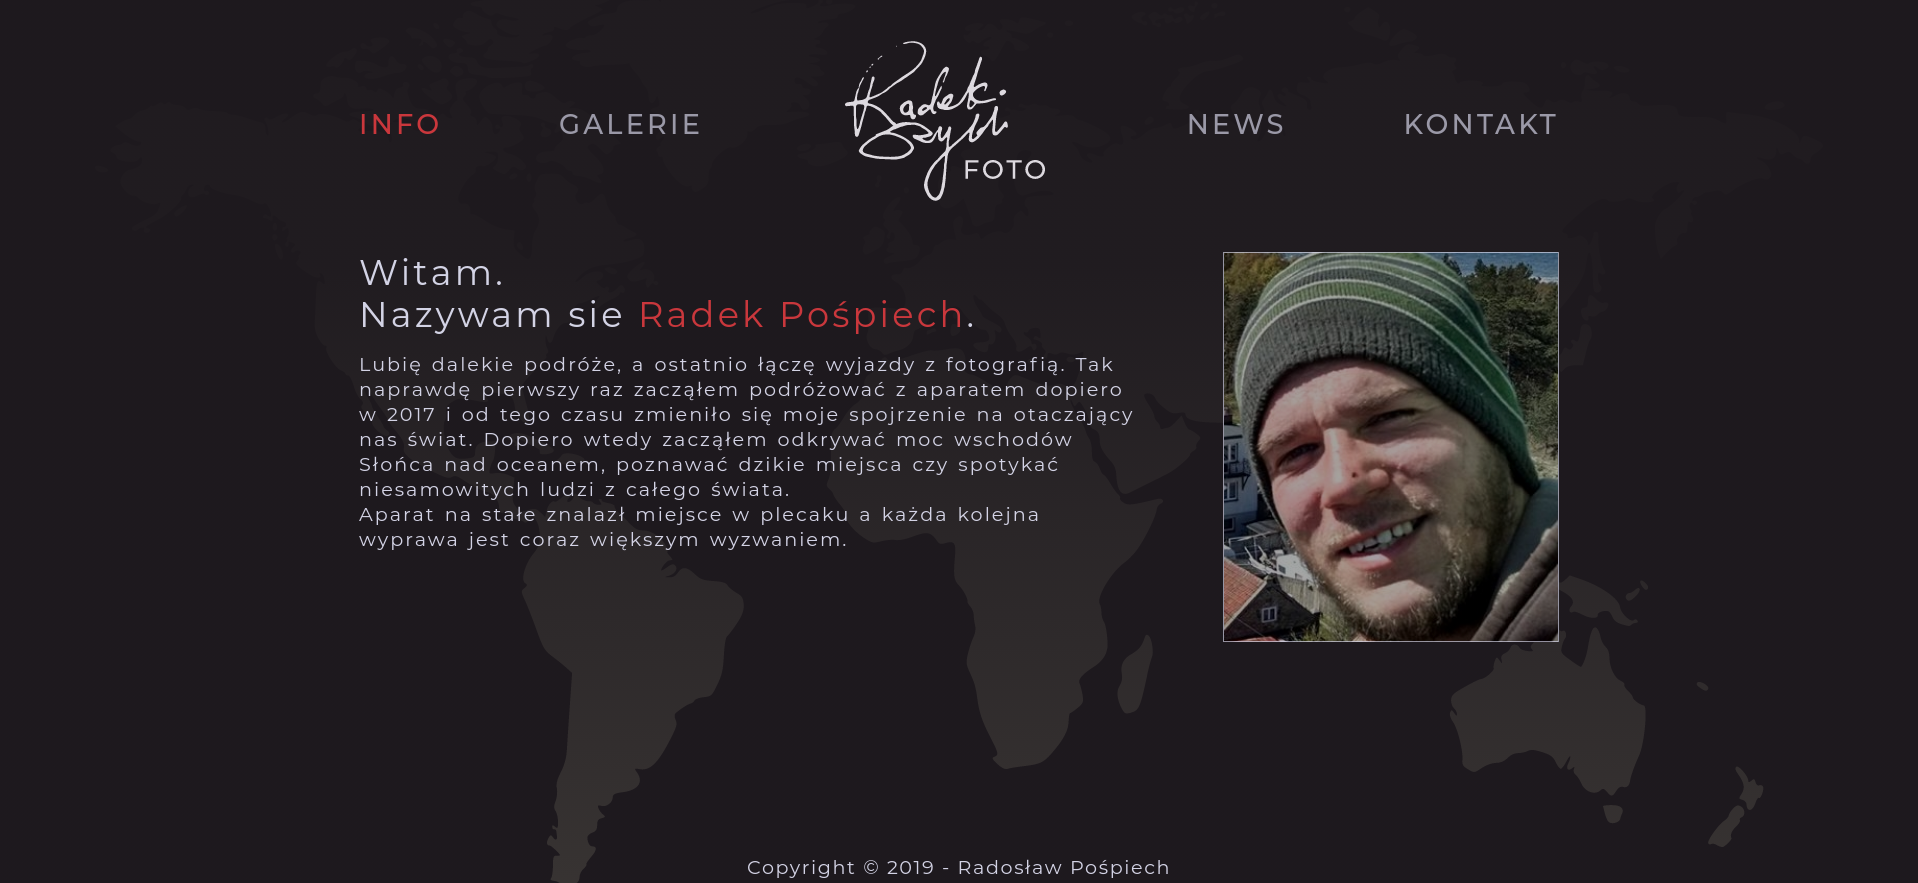
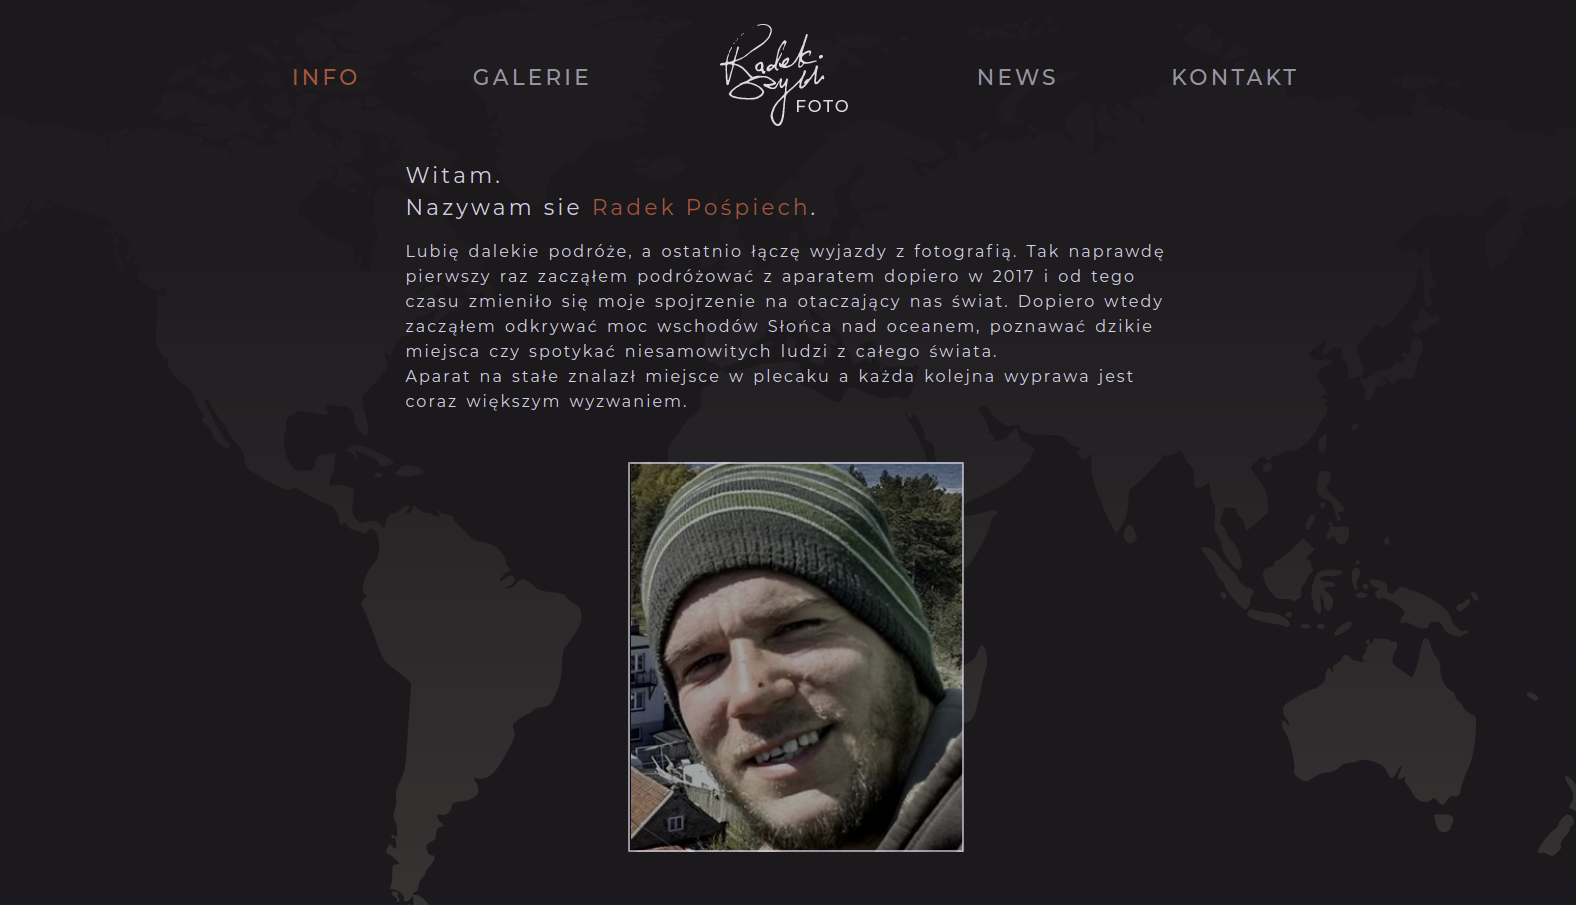
cleaned code a little bit

diff --git a/css/styles.css b/css/styles.css
@@ -74,7 +74,7 @@ img {
     position: relative;
     display: block;
     width: 3rem;
-    height: .2rem;
+    height: .1rem;
     background: #424141;
     -webkit-transform: translateX(-50%);
     -ms-transform: translateX(-50%);
@@ -82,7 +82,7 @@ img {
     bottom: auto;
     left: 50%;
     border-radius: .1rem;
-    margin-top: 1.2rem; }
+    margin-top: 1.5rem; }
 
 /* *** NAVIGATION *** */
 /* Trigger */
@@ -90,7 +90,7 @@ img {
   display: block;
   position: fixed;
   width: 30px;
-  height: 25px;
+  height: 42px;
   right: 2rem;
   top: 2rem;
   z-index: 200;
@@ -98,9 +98,9 @@ img {
   .toggler .burger {
     display: inline-block;
     position: relative;
-    width: 30px;
-    height: 5px;
-    background-color: #FFFFFF;
+    width: 28px;
+    height: 3px;
+    background-color: #f0f0f0;
     -webkit-transition-property: background-color, -webkit-transform;
     transition-property: background-color, -webkit-transform;
     -o-transition-property: background-color, transform;
@@ -108,14 +108,16 @@ img {
     transition-property: background-color, transform, -webkit-transform;
     -webkit-transition-duration: 300ms;
     -o-transition-duration: 300ms;
-    transition-duration: 300ms; }
+    transition-duration: 300ms;
+    border-radius: 2px; }
     .toggler .burger:before, .toggler .burger:after {
       content: '';
       display: block;
       width: 30px;
-      height: 5px;
+      height: 3px;
+      left: -1px;
       position: absolute;
-      background: #FFFFFF;
+      background: #f0f0f0;
       -webkit-transition-property: margin, -webkit-transform;
       transition-property: margin, -webkit-transform;
       -o-transition-property: margin, transform;
@@ -123,11 +125,12 @@ img {
       transition-property: margin, transform, -webkit-transform;
       -webkit-transition-duration: 300ms;
       -o-transition-duration: 300ms;
-      transition-duration: 300ms; }
+      transition-duration: 300ms;
+      border-radius: 2px; }
     .toggler .burger:before {
-      margin-top: -10px; }
+      margin-top: -12px; }
     .toggler .burger:after {
-      margin-top: 10px; }
+      margin-top: 12px; }
   .toggler.nav--opened {
     opacity: 0.5; }
 
@@ -160,7 +163,7 @@ img {
 
 .nav--opened .nav {
   opacity: 1;
-  background-color: #333; }
+  background-color: #294874; }
 
 .nav__list {
   margin: 0;
@@ -175,10 +178,10 @@ img {
       padding: 1rem 0; } }
 
 .nav__link {
-  font-size: 1.3em;
+  font-size: 1.5em;
   text-transform: uppercase;
   text-decoration: none;
-  color: #FFFFFF;
+  color: #f0f0f0;
   -webkit-transition: opacity 300ms ease-in-out;
   -o-transition: opacity 300ms ease-in-out;
   transition: opacity 300ms ease-in-out;
@@ -230,33 +233,17 @@ img {
     width: 100%;
     height: 100%;
     position: absolute;
-    background: -webkit-gradient(linear, left top, left bottom, from(#373b449d), to(#4286f483)), fixed url("../../img/bg.jpg") center/cover no-repeat;
-    background: -webkit-linear-gradient(top, #373b449d, #4286f483), fixed url("../../img/bg.jpg") center/cover no-repeat;
-    background: -o-linear-gradient(top, #373b449d, #4286f483), fixed url("../../img/bg.jpg") center/cover no-repeat;
-    background: linear-gradient(to bottom, #373b449d, #4286f483), fixed url("../../img/bg.jpg") center/cover no-repeat; }
+    background: -webkit-gradient(linear, left bottom, left top, from(#373b449d), to(#4286f483)), fixed url("../../img/bg.jpg") center/cover no-repeat;
+    background: -webkit-linear-gradient(bottom, #373b449d, #4286f483), fixed url("../../img/bg.jpg") center/cover no-repeat;
+    background: -o-linear-gradient(bottom, #373b449d, #4286f483), fixed url("../../img/bg.jpg") center/cover no-repeat;
+    background: linear-gradient(to top, #373b449d, #4286f483), fixed url("../../img/bg.jpg") center/cover no-repeat; }
   .header .logo--header {
     position: absolute;
-    left: 1.2rem;
-    top: 1.2rem;
-    padding: .2rem .6rem .3rem;
-    font-size: 1.7rem;
-    font-weight: bolder;
-    font-family: "Montserrat", sans-serif; }
-    .header .logo--header .span-1 {
-      position: relative;
-      left: .3rem; }
-    .header .logo--header .span-2 {
-      position: relative;
-      font-size: 2.1rem;
-      top: 2px;
-      right: .3rem;
-      -webkit-transform: rotateZ(100deg);
-      -ms-transform: rotate(100deg);
-      transform: rotateZ(100deg); }
-    .header .logo--header .span-3 {
-      position: relative;
-      right: 16px;
-      bottom: 5px; }
+    left: 1rem;
+    top: 1.6rem; }
+    .header .logo--header img {
+      width: 100px;
+      height: 100px; }
   .header .header-container {
     padding: 0 1rem;
     position: relative;
@@ -272,6 +259,7 @@ img {
       transition: all .5s; }
       .header .header-container span.header-part-1 {
         font-size: 1.6rem;
+        font-weight: lighter;
         text-align: center;
         -webkit-animation: header1 3s forwards;
         animation: header1 3s forwards;
@@ -280,7 +268,7 @@ img {
         -webkit-animation: header2 3.8s ease-in 1;
         animation: header2 3.8s ease-in 1;
         font-size: 1.3rem;
-        letter-spacing: 8px; }
+        letter-spacing: 5px; }
 
 @-webkit-keyframes header1 {
   0% {
@@ -463,10 +451,10 @@ img {
     height: 100%;
     position: absolute;
     z-index: -1;
-    background: -webkit-gradient(linear, left bottom, left top, from(#373b449d), to(#4286f483)), fixed url("../../img/bg.jpg") center/cover no-repeat;
-    background: -webkit-linear-gradient(bottom, #373b449d, #4286f483), fixed url("../../img/bg.jpg") center/cover no-repeat;
-    background: -o-linear-gradient(bottom, #373b449d, #4286f483), fixed url("../../img/bg.jpg") center/cover no-repeat;
-    background: linear-gradient(to top, #373b449d, #4286f483), fixed url("../../img/bg.jpg") center/cover no-repeat; }
+    background: -webkit-gradient(linear, left bottom, left top, from(#373b44bd), to(#373b44b7)), fixed url("../../img/bg2.jpg") center/cover no-repeat;
+    background: -webkit-linear-gradient(bottom, #373b44bd, #373b44b7), fixed url("../../img/bg2.jpg") center/cover no-repeat;
+    background: -o-linear-gradient(bottom, #373b44bd, #373b44b7), fixed url("../../img/bg2.jpg") center/cover no-repeat;
+    background: linear-gradient(to top, #373b44bd, #373b44b7), fixed url("../../img/bg2.jpg") center/cover no-repeat; }
   .skills h3 {
     margin-bottom: 1.3rem; }
   .skills ul {
@@ -510,10 +498,6 @@ img {
   .projects p:not(:first-of-type) {
     padding: 1rem 2rem; }
 
-.contact {
-  background: #5454d1;
-  position: relative; }
-
 .footer {
   display: -webkit-box;
   display: -ms-flexbox;
@@ -529,6 +513,20 @@ img {
   -ms-flex-align: center;
   align-items: center;
   position: relative; }
+  .footer::before {
+    content: "";
+    top: 0;
+    left: 0;
+    width: 100%;
+    height: 100%;
+    position: absolute;
+    z-index: -1;
+    background: -webkit-gradient(linear, left top, left bottom, from(#373b44a2), to(#4286f48c)), fixed url("../../img/bg3.jpg") center/cover no-repeat;
+    background: -webkit-linear-gradient(top, #373b44a2, #4286f48c), fixed url("../../img/bg3.jpg") center/cover no-repeat;
+    background: -o-linear-gradient(top, #373b44a2, #4286f48c), fixed url("../../img/bg3.jpg") center/cover no-repeat;
+    background: linear-gradient(to bottom, #373b44a2, #4286f48c), fixed url("../../img/bg3.jpg") center/cover no-repeat; }
+  .footer .caption::after {
+    background-color: #f0f0f0; }
   .footer .social-footer {
     margin: 2rem 0 1.5rem; }
     .footer .social-footer a {

diff --git a/index.html b/index.html
@@ -18,10 +18,10 @@
     <a class="toggler"><span class="burger"></span></a>
     <nav class="nav">
       <ul class="nav__list">
-        <li class="nav__item"><a class="nav__link" href="#">Homebase</a></li>
-        <li class="nav__item"><a class="nav__link" href="#about">Introducing</a></li>
+        <li class="nav__item"><a class="nav__link" href="#">Header</a></li>
+        <li class="nav__item"><a class="nav__link" href="#about">Me</a></li>
         <li class="nav__item"><a class="nav__link" href="#skills">Skills</a></li>
-        <li class="nav__item"><a class="nav__link" href="#projects">Working On</a></li>
+        <li class="nav__item"><a class="nav__link" href="#projects">Work</a></li>
         <li class="nav__item"><a class="nav__link" href="#contact">Contact</a></li>
       </ul>
     </nav>
@@ -31,12 +31,13 @@
   <!-- Header -->
   <header class="header">
     <div class="logo--header">
-      <span class="span-1">&#60;D</span>
-      <span class="span-2">L</span><span class="span-3">&#62;</span>
+      <img src="./img/dL.svg" alt="">
+      <!-- <span class="span-1">&#60;D</span>
+      <span class="span-2">L</span><span class="span-3">&#62;</span> -->
     </div>
     <h1 class="header-container">
       <span class="header-part-1">Hi, I'm Daniel,</span>
-      <span class="header-part-2">a front-end<br />web developer</span>
+      <span class="header-part-2">front-end<br />web developer</span>
     </h1>
     <div class="social--header">
       <a href="https://github.com/danielluty" class="contact-btn"><i class="fab fa-github"></i></a>
@@ -60,16 +61,17 @@
         career path by doing what he like's most.
       </p>
       <p>
-        My focus lies on <strong>responsive and clean code</strong>, with good
+        My focus lies on <strong>responsive and clean code / design</strong>, with good
         understanding of <strong>Java&shy;Script</strong> (OOP, FP, ESNext,
-        Async JS, Design Patterns...) and <strong>React / Redux</strong>.
+        Async, Design Patterns...) and <strong>React / Redux</strong>.
       </p>
-      <p>+ <strong>Sass</strong> is a good friend.</p>
-      <p>+ Googling in <strong>four languages</strong>.</p>
-      <p>+ Backend isn't alien.</p>
-      <p>+ Empathy neither &nbsp;<i class="far fa-smile"></i>.</p>
-      <p>+ Willing to develop further.</p>
-      <p>+ Knowledge hungry <strong>teamplayer</strong>.</p>
+      <p>-&#62; <strong>Sass</strong> is a good friend.</p>
+      <p>-&#62; <strong>Linux / command line</strong> as well.</p>
+      <p>-&#62; Googling in <strong>four languages</strong>.</p>
+      <p>-&#62; <strong>Backend</strong> isn't alien.</p>
+      <p>-&#62; <strong>Empathy</strong> neither &nbsp;<i class="far fa-smile"></i>.</p>
+      <p>-&#62; Willing to develop further.</p>
+      <p>-&#62; Knowledge hungry <strong>teamplayer</strong>.</p>
       <img src="./img/moi.jpg" alt="Me" />
       <p>
         Find me on
@@ -149,7 +151,7 @@
         <li>... furthermore:</li>
         <li><strong>GitHub</strong> / npm / <strong>Webpack</strong></li>
         <li>Slack / <strong>Jira</strong> / Scrum</li>
-        <li><strong>VS Code</strong> / Webstorm</li>
+        <li><strong>VS Code</strong> / Webstorm / <strong>Linux (command line)</strong></li>
       </ul>
     </section>
 
@@ -182,12 +184,13 @@
       </a>
       <p>
         Another friends moving company website. HTML, CSS and Vanilla JS with
-        Sass. Unfinished yet, work in progress. Mobile first.
+        Sass. Unfinished yet, work in progress. Responsive and mobile first.
       </p>
     </section>
   </main>
   <footer class="footer" id="contact">
     <h2>Find me</h2>
+    <p class="caption"></p>
     <div class="social-footer">
       <a href="https://github.com/danielluty"><i class="fab fa-github"></i></a>
       <a href="https://www.linkedin.com/in/daniel-luty/"><i class="fab fa-linkedin-in"></i></a>
